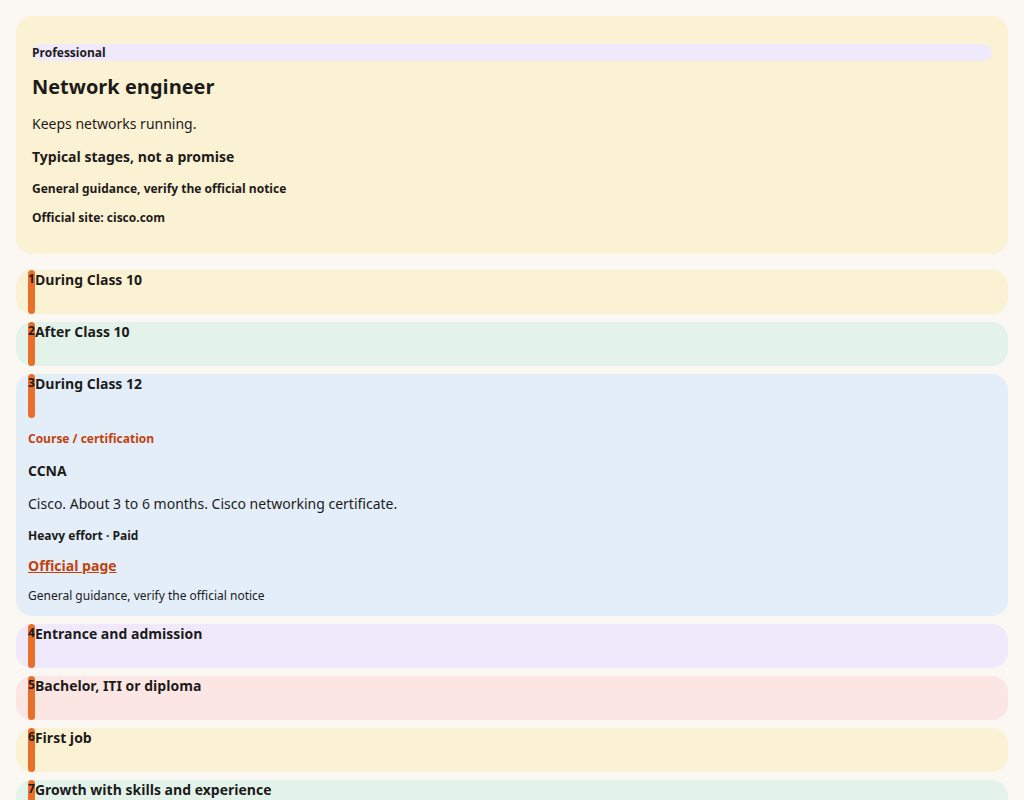
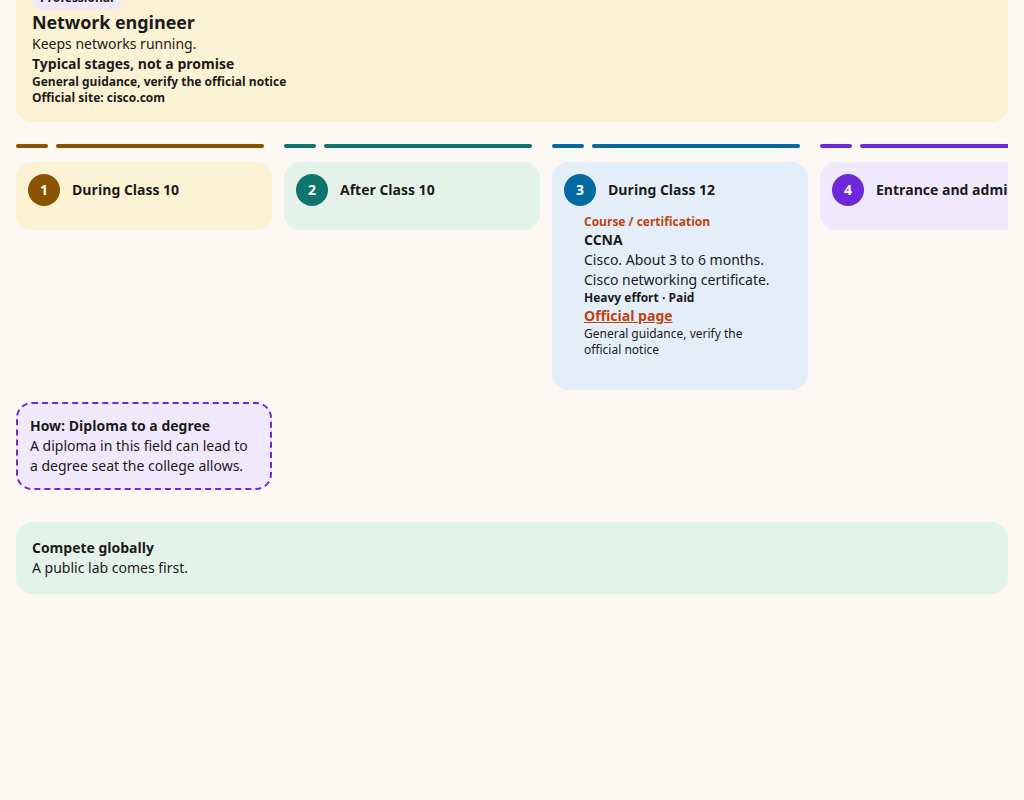
Show the career mind map from tablet width, with the stage number clear of the title.
The phone list stays under the md breakpoint. Wider screens scroll the stage cards sideways, with the connector above the cards and switch paths in a dashed row. Each stage number is a round deep-tint badge with a white numeral and a gap before the title.

diff --git a/docs/screenshots/career/html/roadmap.html b/docs/screenshots/career/html/roadmap.html
@@ -1,26 +1,1 @@
-<!doctype html><html><head><meta charset="utf-8"><style>
-body { margin: 0; background: #FBF8F3; color: #1C1B1A; font-family: system-ui, sans-serif; }
-.bg-paper { background: #FBF8F3; } .bg-card { background: #FFFDF9; }
-.bg-saffron { background: #E8702A; } .text-saffron-deep { color: #C2410C; }
-.text-ink { color: #1C1B1A; } .bg-lesson-butter { background: #FBF1D3; }
-.bg-lesson-mint { background: #E4F3EA; } .bg-lesson-sky { background: #E3EEF9; }
-.bg-lesson-lilac { background: #EFE9FB; } .bg-lesson-blush { background: #FBE6E3; }
-.text-lesson-mint-deep { color: #0F766E; } .text-lesson-sky-deep { color: #0369A1; }
-.text-lesson-butter-deep { color: #8A5300; } .text-lesson-lilac-deep { color: #6D28D9; }
-.text-lesson-blush-deep { color: #B42318; }
-.border-l-lesson-mint-deep { border-left-color: #0F766E; }
-.border-l-lesson-sky-deep { border-left-color: #0369A1; }
-.border-l-lesson-butter-deep { border-left-color: #8A5300; }
-.rounded-2xl { border-radius: 16px; } .rounded-xl { border-radius: 12px; } .rounded-full { border-radius: 9999px; }
-.p-4 { padding: 16px; } .p-3 { padding: 12px; } .px-3 { padding-left: 12px; padding-right: 12px; }
-.px-4 { padding-left: 16px; padding-right: 16px; } .py-3 { padding-top: 12px; padding-bottom: 12px; }
-.gap-2 { gap: 8px; } .gap-4 { gap: 16px; } .flex { display: flex; } .flex-col { flex-direction: column; }
-.min-h-\[44px\] { min-height: 44px; } .font-extrabold { font-weight: 800; } .font-semibold { font-weight: 600; }
-.text-sm { font-size: 14px; } .text-xs { font-size: 12px; } .text-base { font-size: 16px; }
-.border-l-4 { border-left-width: 4px; border-left-style: solid; }
-.fam-pill { display: inline-flex; align-items: center; border-radius: 9999px; padding: 2px 10px; font-size: 12px; font-weight: 700; }
-.fam-card { background: #FFFDF9; border-radius: 16px; padding: 16px; }
-.fam-h2 { font-size: 20px; font-weight: 800; margin: 0; }
-.fam-section { display: flex; flex-direction: column; gap: 12px; }
-dialog { border: 0; }
-</style></head><body><main style="padding:16px"><article data-roadmap="network-engineer" class="flex flex-col gap-4"><header class="rounded-2xl bg-lesson-butter p-4"><p class="inline-block whitespace-nowrap rounded-full bg-lesson-lilac px-2 py-1 text-xs font-extrabold text-ink">Professional</p><h2 lang="en" class="fam-h2 text-ink">Network engineer</h2><p lang="en" class="text-sm text-ink">Keeps networks running.</p><p class="text-sm font-semibold text-ink">Typical stages, not a promise</p><p data-guidance="true" class="text-xs font-semibold text-ink">General guidance, verify the official notice</p><p class="text-xs font-semibold text-ink">Official site: cisco.com</p></header><div data-stepper="true" class="flex flex-col gap-2 md:hidden"><details data-lane="during_10" class="rounded-2xl bg-lesson-butter"><summary class="flex min-h-[44px] cursor-pointer items-center px-3 text-sm font-extrabold text-ink"><span class="mr-2 inline-flex h-7 w-7 shrink-0 items-center justify-center rounded-full bg-saffron text-xs font-extrabold text-ink">1</span>During Class 10</summary><div class="flex flex-col gap-2 px-3 pb-3"></div></details><details data-lane="after_10" class="rounded-2xl bg-lesson-mint"><summary class="flex min-h-[44px] cursor-pointer items-center px-3 text-sm font-extrabold text-ink"><span class="mr-2 inline-flex h-7 w-7 shrink-0 items-center justify-center rounded-full bg-saffron text-xs font-extrabold text-ink">2</span>After Class 10</summary><div class="flex flex-col gap-2 px-3 pb-3"></div></details><details data-lane="during_12" open="" class="rounded-2xl bg-lesson-sky"><summary class="flex min-h-[44px] cursor-pointer items-center px-3 text-sm font-extrabold text-ink"><span class="mr-2 inline-flex h-7 w-7 shrink-0 items-center justify-center rounded-full bg-saffron text-xs font-extrabold text-ink">3</span>During Class 12</summary><div class="flex flex-col gap-2 px-3 pb-3"><div data-action="certification" class="rounded-xl px-2 py-2 text-sm text-ink bg-lesson-sky"><p class="text-xs font-extrabold text-saffron-deep">Course / certification</p><p lang="en" class="font-extrabold">CCNA</p><p lang="en">Cisco. About 3 to 6 months. Cisco networking certificate.</p><p class="text-xs font-semibold">Heavy effort · Paid</p><a class="text-sm font-extrabold text-saffron-deep underline" href="https://www.cisco.com">Official page</a><p class="text-xs">General guidance, verify the official notice</p></div></div></details><details data-lane="entrance" class="rounded-2xl bg-lesson-lilac"><summary class="flex min-h-[44px] cursor-pointer items-center px-3 text-sm font-extrabold text-ink"><span class="mr-2 inline-flex h-7 w-7 shrink-0 items-center justify-center rounded-full bg-saffron text-xs font-extrabold text-ink">4</span>Entrance and admission</summary><div class="flex flex-col gap-2 px-3 pb-3"></div></details><details data-lane="bachelor" class="rounded-2xl bg-lesson-blush"><summary class="flex min-h-[44px] cursor-pointer items-center px-3 text-sm font-extrabold text-ink"><span class="mr-2 inline-flex h-7 w-7 shrink-0 items-center justify-center rounded-full bg-saffron text-xs font-extrabold text-ink">5</span>Bachelor, ITI or diploma</summary><div class="flex flex-col gap-2 px-3 pb-3"></div></details><details data-lane="first_job" class="rounded-2xl bg-lesson-butter"><summary class="flex min-h-[44px] cursor-pointer items-center px-3 text-sm font-extrabold text-ink"><span class="mr-2 inline-flex h-7 w-7 shrink-0 items-center justify-center rounded-full bg-saffron text-xs font-extrabold text-ink">6</span>First job</summary><div class="flex flex-col gap-2 px-3 pb-3"></div></details><details data-lane="years" class="rounded-2xl bg-lesson-mint"><summary class="flex min-h-[44px] cursor-pointer items-center px-3 text-sm font-extrabold text-ink"><span class="mr-2 inline-flex h-7 w-7 shrink-0 items-center justify-center rounded-full bg-saffron text-xs font-extrabold text-ink">7</span>Growth with skills and experience</summary><div class="flex flex-col gap-2 px-3 pb-3"></div></details></div><div data-mindmap="true" class="hidden md:block"><div class="overflow-x-auto pb-4"><div class="flex w-max items-center gap-3 pb-2" data-connector="true"><div class="flex w-64 shrink-0 items-center"><span class="inline-flex h-8 w-8 shrink-0 items-center justify-center rounded-full bg-saffron text-sm font-extrabold text-ink">1</span><span class="mx-2 h-1 flex-1 rounded bg-saffron"></span></div><div class="flex w-64 shrink-0 items-center"><span class="inline-flex h-8 w-8 shrink-0 items-center justify-center rounded-full bg-saffron text-sm font-extrabold text-ink">2</span><span class="mx-2 h-1 flex-1 rounded bg-saffron"></span></div><div class="flex w-64 shrink-0 items-center"><span class="inline-flex h-8 w-8 shrink-0 items-center justify-center rounded-full bg-saffron text-sm font-extrabold text-ink">3</span><span class="mx-2 h-1 flex-1 rounded bg-saffron"></span></div><div class="flex w-64 shrink-0 items-center"><span class="inline-flex h-8 w-8 shrink-0 items-center justify-center rounded-full bg-saffron text-sm font-extrabold text-ink">4</span><span class="mx-2 h-1 flex-1 rounded bg-saffron"></span></div><div class="flex w-64 shrink-0 items-center"><span class="inline-flex h-8 w-8 shrink-0 items-center justify-center rounded-full bg-saffron text-sm font-extrabold text-ink">5</span><span class="mx-2 h-1 flex-1 rounded bg-saffron"></span></div><div class="flex w-64 shrink-0 items-center"><span class="inline-flex h-8 w-8 shrink-0 items-center justify-center rounded-full bg-saffron text-sm font-extrabold text-ink">6</span><span class="mx-2 h-1 flex-1 rounded bg-saffron"></span></div><div class="flex w-64 shrink-0 items-center"><span class="inline-flex h-8 w-8 shrink-0 items-center justify-center rounded-full bg-saffron text-sm font-extrabold text-ink">7</span></div></div><div class="flex w-max items-start gap-3"><section data-lane="during_10" class="w-64 shrink-0 rounded-2xl bg-lesson-butter p-3"><h3 class="text-sm font-extrabold text-ink">During Class 10</h3><div class="flex flex-col gap-2 px-3 pb-3"></div></section><section data-lane="after_10" class="w-64 shrink-0 rounded-2xl bg-lesson-mint p-3"><h3 class="text-sm font-extrabold text-ink">After Class 10</h3><div class="flex flex-col gap-2 px-3 pb-3"></div></section><section data-lane="during_12" class="w-64 shrink-0 rounded-2xl bg-lesson-sky p-3"><h3 class="text-sm font-extrabold text-ink">During Class 12</h3><div class="flex flex-col gap-2 px-3 pb-3"><div data-action="certification" class="rounded-xl px-2 py-2 text-sm text-ink bg-lesson-sky"><p class="text-xs font-extrabold text-saffron-deep">Course / certification</p><p lang="en" class="font-extrabold">CCNA</p><p lang="en">Cisco. About 3 to 6 months. Cisco networking certificate.</p><p class="text-xs font-semibold">Heavy effort · Paid</p><a class="text-sm font-extrabold text-saffron-deep underline" href="https://www.cisco.com">Official page</a><p class="text-xs">General guidance, verify the official notice</p></div></div></section><section data-lane="entrance" class="w-64 shrink-0 rounded-2xl bg-lesson-lilac p-3"><h3 class="text-sm font-extrabold text-ink">Entrance and admission</h3><div class="flex flex-col gap-2 px-3 pb-3"></div></section><section data-lane="bachelor" class="w-64 shrink-0 rounded-2xl bg-lesson-blush p-3"><h3 class="text-sm font-extrabold text-ink">Bachelor, ITI or diploma</h3><div class="flex flex-col gap-2 px-3 pb-3"></div></section><section data-lane="first_job" class="w-64 shrink-0 rounded-2xl bg-lesson-butter p-3"><h3 class="text-sm font-extrabold text-ink">First job</h3><div class="flex flex-col gap-2 px-3 pb-3"></div></section><section data-lane="years" class="w-64 shrink-0 rounded-2xl bg-lesson-mint p-3"><h3 class="text-sm font-extrabold text-ink">Growth with skills and experience</h3><div class="flex flex-col gap-2 px-3 pb-3"></div></section></div></div></div><section data-compete="true" class="rounded-2xl bg-lesson-mint p-4"><h3 class="text-sm font-extrabold text-ink">Compete globally</h3><p lang="en" class="text-sm text-ink">A public lab comes first.</p></section></article></main></body></html>
+<!doctype html><html><head><meta charset="utf-8"><link rel="stylesheet" href="file:///workspace/.next/static/css/5f8e0c6abeffa412.css"><link rel="stylesheet" href="file:///workspace/.next/static/css/db16f716d51f14d7.css"></head><body class="bg-paper"><main class="fam-page fam-roadmap"><article data-roadmap="network-engineer" class="flex flex-col gap-4"><header class="rounded-2xl bg-lesson-butter p-4"><p class="inline-block whitespace-nowrap rounded-full bg-lesson-lilac px-2 py-1 text-xs font-extrabold text-ink">Professional</p><h2 lang="en" class="fam-h2 text-ink">Network engineer</h2><p lang="en" class="text-sm text-ink">Keeps networks running.</p><p class="text-sm font-semibold text-ink">Typical stages, not a promise</p><p data-guidance="true" class="text-xs font-semibold text-ink">General guidance, verify the official notice</p><p class="text-xs font-semibold text-ink">Official site: cisco.com</p></header><div data-stepper="true" class="flex flex-col gap-2 md:hidden"><details data-lane="during_10" class="rounded-2xl bg-lesson-butter"><summary class="flex min-h-[44px] cursor-pointer items-center gap-3 px-3 text-sm font-extrabold text-ink"><span aria-hidden="true" class="h-8 w-1 shrink-0 rounded-full bg-lesson-butter-deep"></span><span class="inline-flex h-8 w-8 min-h-[28px] min-w-[28px] shrink-0 items-center justify-center rounded-full text-sm font-extrabold text-white bg-lesson-butter-deep">1</span><span class="min-w-0">During Class 10</span></summary><div class="flex flex-col gap-2 px-3 pb-3"></div></details><details data-lane="after_10" class="rounded-2xl bg-lesson-mint"><summary class="flex min-h-[44px] cursor-pointer items-center gap-3 px-3 text-sm font-extrabold text-ink"><span aria-hidden="true" class="h-8 w-1 shrink-0 rounded-full bg-lesson-mint-deep"></span><span class="inline-flex h-8 w-8 min-h-[28px] min-w-[28px] shrink-0 items-center justify-center rounded-full text-sm font-extrabold text-white bg-lesson-mint-deep">2</span><span class="min-w-0">After Class 10</span></summary><div class="flex flex-col gap-2 px-3 pb-3"></div></details><details data-lane="during_12" open="" class="rounded-2xl bg-lesson-sky"><summary class="flex min-h-[44px] cursor-pointer items-center gap-3 px-3 text-sm font-extrabold text-ink"><span aria-hidden="true" class="h-8 w-1 shrink-0 rounded-full bg-lesson-sky-deep"></span><span class="inline-flex h-8 w-8 min-h-[28px] min-w-[28px] shrink-0 items-center justify-center rounded-full text-sm font-extrabold text-white bg-lesson-sky-deep">3</span><span class="min-w-0">During Class 12</span></summary><div class="flex flex-col gap-2 px-3 pb-3"><div data-action="certification" class="rounded-xl px-2 py-2 text-sm text-ink bg-lesson-sky"><p class="text-xs font-extrabold text-saffron-deep">Course / certification</p><p lang="en" class="font-extrabold">CCNA</p><p lang="en">Cisco. About 3 to 6 months. Cisco networking certificate.</p><p class="text-xs font-semibold">Heavy effort · Paid</p><a class="text-sm font-extrabold text-saffron-deep underline" href="https://www.cisco.com">Official page</a><p class="text-xs">General guidance, verify the official notice</p></div></div></details><details data-lane="entrance" class="rounded-2xl bg-lesson-lilac"><summary class="flex min-h-[44px] cursor-pointer items-center gap-3 px-3 text-sm font-extrabold text-ink"><span aria-hidden="true" class="h-8 w-1 shrink-0 rounded-full bg-lesson-lilac-deep"></span><span class="inline-flex h-8 w-8 min-h-[28px] min-w-[28px] shrink-0 items-center justify-center rounded-full text-sm font-extrabold text-white bg-lesson-lilac-deep">4</span><span class="min-w-0">Entrance and admission</span></summary><div class="flex flex-col gap-2 px-3 pb-3"></div></details><details data-lane="bachelor" class="rounded-2xl bg-lesson-blush"><summary class="flex min-h-[44px] cursor-pointer items-center gap-3 px-3 text-sm font-extrabold text-ink"><span aria-hidden="true" class="h-8 w-1 shrink-0 rounded-full bg-lesson-blush-deep"></span><span class="inline-flex h-8 w-8 min-h-[28px] min-w-[28px] shrink-0 items-center justify-center rounded-full text-sm font-extrabold text-white bg-lesson-blush-deep">5</span><span class="min-w-0">Bachelor, ITI or diploma</span></summary><div class="flex flex-col gap-2 px-3 pb-3"></div></details><details data-lane="first_job" class="rounded-2xl bg-lesson-butter"><summary class="flex min-h-[44px] cursor-pointer items-center gap-3 px-3 text-sm font-extrabold text-ink"><span aria-hidden="true" class="h-8 w-1 shrink-0 rounded-full bg-lesson-butter-deep"></span><span class="inline-flex h-8 w-8 min-h-[28px] min-w-[28px] shrink-0 items-center justify-center rounded-full text-sm font-extrabold text-white bg-lesson-butter-deep">6</span><span class="min-w-0">First job</span></summary><div class="flex flex-col gap-2 px-3 pb-3"></div></details><details data-lane="years" class="rounded-2xl bg-lesson-mint"><summary class="flex min-h-[44px] cursor-pointer items-center gap-3 px-3 text-sm font-extrabold text-ink"><span aria-hidden="true" class="h-8 w-1 shrink-0 rounded-full bg-lesson-mint-deep"></span><span class="inline-flex h-8 w-8 min-h-[28px] min-w-[28px] shrink-0 items-center justify-center rounded-full text-sm font-extrabold text-white bg-lesson-mint-deep">7</span><span class="min-w-0">Growth with skills and experience</span></summary><div class="flex flex-col gap-2 px-3 pb-3"></div></details></div><div data-mindmap="true" class="hidden md:block"><div class="overflow-x-auto pb-4"><div class="flex w-max items-center gap-3 pb-2" data-connector="true" aria-hidden="true"><div class="flex w-64 shrink-0 items-center"><span class="h-1 w-8 shrink-0 rounded-full bg-lesson-butter-deep"></span><span class="mx-2 h-1 flex-1 rounded bg-lesson-butter-deep"></span></div><div class="flex w-64 shrink-0 items-center"><span class="h-1 w-8 shrink-0 rounded-full bg-lesson-mint-deep"></span><span class="mx-2 h-1 flex-1 rounded bg-lesson-mint-deep"></span></div><div class="flex w-64 shrink-0 items-center"><span class="h-1 w-8 shrink-0 rounded-full bg-lesson-sky-deep"></span><span class="mx-2 h-1 flex-1 rounded bg-lesson-sky-deep"></span></div><div class="flex w-64 shrink-0 items-center"><span class="h-1 w-8 shrink-0 rounded-full bg-lesson-lilac-deep"></span><span class="mx-2 h-1 flex-1 rounded bg-lesson-lilac-deep"></span></div><div class="flex w-64 shrink-0 items-center"><span class="h-1 w-8 shrink-0 rounded-full bg-lesson-blush-deep"></span><span class="mx-2 h-1 flex-1 rounded bg-lesson-blush-deep"></span></div><div class="flex w-64 shrink-0 items-center"><span class="h-1 w-8 shrink-0 rounded-full bg-lesson-butter-deep"></span><span class="mx-2 h-1 flex-1 rounded bg-lesson-butter-deep"></span></div><div class="flex w-64 shrink-0 items-center"><span class="h-1 w-8 shrink-0 rounded-full bg-lesson-mint-deep"></span></div><svg data-connectors="true" viewBox="0 0 40 16" class="h-4 w-10 shrink-0 text-lesson-lilac-deep"><path data-cross="true" d="M0 8 H40" fill="none" stroke="currentColor" stroke-width="2" stroke-dasharray="6 4"></path></svg></div><div class="flex w-max items-start gap-3"><section data-lane="during_10" class="w-64 shrink-0 rounded-2xl bg-lesson-butter p-3"><div class="flex items-center gap-3"><span class="inline-flex h-8 w-8 min-h-[28px] min-w-[28px] shrink-0 items-center justify-center rounded-full text-sm font-extrabold text-white bg-lesson-butter-deep">1</span><h3 class="min-w-0 text-sm font-extrabold text-ink">During Class 10</h3></div><div class="flex flex-col gap-2 px-3 pb-3"></div></section><section data-lane="after_10" class="w-64 shrink-0 rounded-2xl bg-lesson-mint p-3"><div class="flex items-center gap-3"><span class="inline-flex h-8 w-8 min-h-[28px] min-w-[28px] shrink-0 items-center justify-center rounded-full text-sm font-extrabold text-white bg-lesson-mint-deep">2</span><h3 class="min-w-0 text-sm font-extrabold text-ink">After Class 10</h3></div><div class="flex flex-col gap-2 px-3 pb-3"></div></section><section data-lane="during_12" class="w-64 shrink-0 rounded-2xl bg-lesson-sky p-3"><div class="flex items-center gap-3"><span class="inline-flex h-8 w-8 min-h-[28px] min-w-[28px] shrink-0 items-center justify-center rounded-full text-sm font-extrabold text-white bg-lesson-sky-deep">3</span><h3 class="min-w-0 text-sm font-extrabold text-ink">During Class 12</h3></div><div class="flex flex-col gap-2 px-3 pb-3"><div data-action="certification" class="rounded-xl px-2 py-2 text-sm text-ink bg-lesson-sky"><p class="text-xs font-extrabold text-saffron-deep">Course / certification</p><p lang="en" class="font-extrabold">CCNA</p><p lang="en">Cisco. About 3 to 6 months. Cisco networking certificate.</p><p class="text-xs font-semibold">Heavy effort · Paid</p><a class="text-sm font-extrabold text-saffron-deep underline" href="https://www.cisco.com">Official page</a><p class="text-xs">General guidance, verify the official notice</p></div></div></section><section data-lane="entrance" class="w-64 shrink-0 rounded-2xl bg-lesson-lilac p-3"><div class="flex items-center gap-3"><span class="inline-flex h-8 w-8 min-h-[28px] min-w-[28px] shrink-0 items-center justify-center rounded-full text-sm font-extrabold text-white bg-lesson-lilac-deep">4</span><h3 class="min-w-0 text-sm font-extrabold text-ink">Entrance and admission</h3></div><div class="flex flex-col gap-2 px-3 pb-3"></div></section><section data-lane="bachelor" class="w-64 shrink-0 rounded-2xl bg-lesson-blush p-3"><div class="flex items-center gap-3"><span class="inline-flex h-8 w-8 min-h-[28px] min-w-[28px] shrink-0 items-center justify-center rounded-full text-sm font-extrabold text-white bg-lesson-blush-deep">5</span><h3 class="min-w-0 text-sm font-extrabold text-ink">Bachelor, ITI or diploma</h3></div><div class="flex flex-col gap-2 px-3 pb-3"></div></section><section data-lane="first_job" class="w-64 shrink-0 rounded-2xl bg-lesson-butter p-3"><div class="flex items-center gap-3"><span class="inline-flex h-8 w-8 min-h-[28px] min-w-[28px] shrink-0 items-center justify-center rounded-full text-sm font-extrabold text-white bg-lesson-butter-deep">6</span><h3 class="min-w-0 text-sm font-extrabold text-ink">First job</h3></div><div class="flex flex-col gap-2 px-3 pb-3"></div></section><section data-lane="years" class="w-64 shrink-0 rounded-2xl bg-lesson-mint p-3"><div class="flex items-center gap-3"><span class="inline-flex h-8 w-8 min-h-[28px] min-w-[28px] shrink-0 items-center justify-center rounded-full text-sm font-extrabold text-white bg-lesson-mint-deep">7</span><h3 class="min-w-0 text-sm font-extrabold text-ink">Growth with skills and experience</h3></div><div class="flex flex-col gap-2 px-3 pb-3"></div></section></div><div data-cross="true" class="mt-3 flex w-max gap-3"><article class="w-64 shrink-0 rounded-2xl border-2 border-dashed border-lesson-lilac-deep bg-lesson-lilac px-3 py-3 text-sm text-ink"><p lang="en" class="font-extrabold">How: Diploma to a degree</p><p lang="en">A diploma in this field can lead to a degree seat the college allows.</p></article></div></div></div><section data-cross-list="true" class="flex flex-col gap-2 md:hidden"><h3 class="text-sm font-extrabold text-ink">Switch paths</h3><div data-cross="true" class="rounded-2xl border-2 border-dashed border-lesson-lilac-deep bg-lesson-lilac px-3 py-3 text-sm text-ink"><p lang="en" class="font-extrabold">How: Diploma to a degree</p><p lang="en">A diploma in this field can lead to a degree seat the college allows.</p><p class="text-xs font-semibold">Official site: aicte-india.org</p></div></section><section data-compete="true" class="rounded-2xl bg-lesson-mint p-4"><h3 class="text-sm font-extrabold text-ink">Compete globally</h3><p lang="en" class="text-sm text-ink">A public lab comes first.</p></section></article></main></body></html>

diff --git a/docs/screenshots/career/html/roadmap-hi.html b/docs/screenshots/career/html/roadmap-hi.html
@@ -1,0 +1,1 @@
+<!doctype html><html><head><meta charset="utf-8"><link rel="stylesheet" href="file:///workspace/.next/static/css/5f8e0c6abeffa412.css"><link rel="stylesheet" href="file:///workspace/.next/static/css/db16f716d51f14d7.css"></head><body class="bg-paper"><main class="fam-page fam-roadmap"><article data-roadmap="network-engineer" class="flex flex-col gap-4"><header class="rounded-2xl bg-lesson-butter p-4"><p class="inline-block whitespace-nowrap rounded-full bg-lesson-lilac px-2 py-1 text-xs font-extrabold text-ink">पेशेवर</p><h2 lang="hi" class="fam-h2 text-ink">नेटवर्क इंजीनियर</h2><p lang="hi" class="text-sm text-ink">नेटवर्क चलाता है।</p><p class="text-sm font-semibold text-ink">आम पड़ाव, वादा नहीं</p><p data-guidance="true" class="text-xs font-semibold text-ink">सामान्य मार्गदर्शन, आधिकारिक सूचना जाँचें</p><p class="text-xs font-semibold text-ink">आधिकारिक साइट: cisco.com</p></header><div data-stepper="true" class="flex flex-col gap-2 md:hidden"><details data-lane="during_10" class="rounded-2xl bg-lesson-butter"><summary class="flex min-h-[44px] cursor-pointer items-center gap-3 px-3 text-sm font-extrabold text-ink"><span aria-hidden="true" class="h-8 w-1 shrink-0 rounded-full bg-lesson-butter-deep"></span><span class="inline-flex h-8 w-8 min-h-[28px] min-w-[28px] shrink-0 items-center justify-center rounded-full text-sm font-extrabold text-white bg-lesson-butter-deep">1</span><span class="min-w-0">कक्षा 10 के दौरान</span></summary><div class="flex flex-col gap-2 px-3 pb-3"></div></details><details data-lane="after_10" class="rounded-2xl bg-lesson-mint"><summary class="flex min-h-[44px] cursor-pointer items-center gap-3 px-3 text-sm font-extrabold text-ink"><span aria-hidden="true" class="h-8 w-1 shrink-0 rounded-full bg-lesson-mint-deep"></span><span class="inline-flex h-8 w-8 min-h-[28px] min-w-[28px] shrink-0 items-center justify-center rounded-full text-sm font-extrabold text-white bg-lesson-mint-deep">2</span><span class="min-w-0">कक्षा 10 के बाद</span></summary><div class="flex flex-col gap-2 px-3 pb-3"></div></details><details data-lane="during_12" open="" class="rounded-2xl bg-lesson-sky"><summary class="flex min-h-[44px] cursor-pointer items-center gap-3 px-3 text-sm font-extrabold text-ink"><span aria-hidden="true" class="h-8 w-1 shrink-0 rounded-full bg-lesson-sky-deep"></span><span class="inline-flex h-8 w-8 min-h-[28px] min-w-[28px] shrink-0 items-center justify-center rounded-full text-sm font-extrabold text-white bg-lesson-sky-deep">3</span><span class="min-w-0">कक्षा 12 के दौरान</span></summary><div class="flex flex-col gap-2 px-3 pb-3"><div data-action="certification" class="rounded-xl px-2 py-2 text-sm text-ink bg-lesson-sky"><p class="text-xs font-extrabold text-saffron-deep">कोर्स / प्रमाणपत्र</p><p lang="hi" class="font-extrabold">सीसीएनए</p><p lang="hi">सिस्को। लगभग 3 से 6 महीने। सिस्को का नेटवर्किंग प्रमाणपत्र।</p><p class="text-xs font-semibold">भारी प्रयास · सशुल्क</p><a class="text-sm font-extrabold text-saffron-deep underline" href="https://www.cisco.com">आधिकारिक पन्ना</a><p class="text-xs">सामान्य मार्गदर्शन, आधिकारिक सूचना जाँचें</p></div></div></details><details data-lane="entrance" class="rounded-2xl bg-lesson-lilac"><summary class="flex min-h-[44px] cursor-pointer items-center gap-3 px-3 text-sm font-extrabold text-ink"><span aria-hidden="true" class="h-8 w-1 shrink-0 rounded-full bg-lesson-lilac-deep"></span><span class="inline-flex h-8 w-8 min-h-[28px] min-w-[28px] shrink-0 items-center justify-center rounded-full text-sm font-extrabold text-white bg-lesson-lilac-deep">4</span><span class="min-w-0">प्रवेश और दाखिला</span></summary><div class="flex flex-col gap-2 px-3 pb-3"></div></details><details data-lane="bachelor" class="rounded-2xl bg-lesson-blush"><summary class="flex min-h-[44px] cursor-pointer items-center gap-3 px-3 text-sm font-extrabold text-ink"><span aria-hidden="true" class="h-8 w-1 shrink-0 rounded-full bg-lesson-blush-deep"></span><span class="inline-flex h-8 w-8 min-h-[28px] min-w-[28px] shrink-0 items-center justify-center rounded-full text-sm font-extrabold text-white bg-lesson-blush-deep">5</span><span class="min-w-0">स्नातक, आईटीआई या डिप्लोमा</span></summary><div class="flex flex-col gap-2 px-3 pb-3"></div></details><details data-lane="first_job" class="rounded-2xl bg-lesson-butter"><summary class="flex min-h-[44px] cursor-pointer items-center gap-3 px-3 text-sm font-extrabold text-ink"><span aria-hidden="true" class="h-8 w-1 shrink-0 rounded-full bg-lesson-butter-deep"></span><span class="inline-flex h-8 w-8 min-h-[28px] min-w-[28px] shrink-0 items-center justify-center rounded-full text-sm font-extrabold text-white bg-lesson-butter-deep">6</span><span class="min-w-0">पहली नौकरी</span></summary><div class="flex flex-col gap-2 px-3 pb-3"></div></details><details data-lane="years" class="rounded-2xl bg-lesson-mint"><summary class="flex min-h-[44px] cursor-pointer items-center gap-3 px-3 text-sm font-extrabold text-ink"><span aria-hidden="true" class="h-8 w-1 shrink-0 rounded-full bg-lesson-mint-deep"></span><span class="inline-flex h-8 w-8 min-h-[28px] min-w-[28px] shrink-0 items-center justify-center rounded-full text-sm font-extrabold text-white bg-lesson-mint-deep">7</span><span class="min-w-0">हुनर और अनुभव से आगे बढ़ना</span></summary><div class="flex flex-col gap-2 px-3 pb-3"></div></details></div><div data-mindmap="true" class="hidden md:block"><div class="overflow-x-auto pb-4"><div class="flex w-max items-center gap-3 pb-2" data-connector="true" aria-hidden="true"><div class="flex w-64 shrink-0 items-center"><span class="h-1 w-8 shrink-0 rounded-full bg-lesson-butter-deep"></span><span class="mx-2 h-1 flex-1 rounded bg-lesson-butter-deep"></span></div><div class="flex w-64 shrink-0 items-center"><span class="h-1 w-8 shrink-0 rounded-full bg-lesson-mint-deep"></span><span class="mx-2 h-1 flex-1 rounded bg-lesson-mint-deep"></span></div><div class="flex w-64 shrink-0 items-center"><span class="h-1 w-8 shrink-0 rounded-full bg-lesson-sky-deep"></span><span class="mx-2 h-1 flex-1 rounded bg-lesson-sky-deep"></span></div><div class="flex w-64 shrink-0 items-center"><span class="h-1 w-8 shrink-0 rounded-full bg-lesson-lilac-deep"></span><span class="mx-2 h-1 flex-1 rounded bg-lesson-lilac-deep"></span></div><div class="flex w-64 shrink-0 items-center"><span class="h-1 w-8 shrink-0 rounded-full bg-lesson-blush-deep"></span><span class="mx-2 h-1 flex-1 rounded bg-lesson-blush-deep"></span></div><div class="flex w-64 shrink-0 items-center"><span class="h-1 w-8 shrink-0 rounded-full bg-lesson-butter-deep"></span><span class="mx-2 h-1 flex-1 rounded bg-lesson-butter-deep"></span></div><div class="flex w-64 shrink-0 items-center"><span class="h-1 w-8 shrink-0 rounded-full bg-lesson-mint-deep"></span></div><svg data-connectors="true" viewBox="0 0 40 16" class="h-4 w-10 shrink-0 text-lesson-lilac-deep"><path data-cross="true" d="M0 8 H40" fill="none" stroke="currentColor" stroke-width="2" stroke-dasharray="6 4"></path></svg></div><div class="flex w-max items-start gap-3"><section data-lane="during_10" class="w-64 shrink-0 rounded-2xl bg-lesson-butter p-3"><div class="flex items-center gap-3"><span class="inline-flex h-8 w-8 min-h-[28px] min-w-[28px] shrink-0 items-center justify-center rounded-full text-sm font-extrabold text-white bg-lesson-butter-deep">1</span><h3 class="min-w-0 text-sm font-extrabold text-ink">कक्षा 10 के दौरान</h3></div><div class="flex flex-col gap-2 px-3 pb-3"></div></section><section data-lane="after_10" class="w-64 shrink-0 rounded-2xl bg-lesson-mint p-3"><div class="flex items-center gap-3"><span class="inline-flex h-8 w-8 min-h-[28px] min-w-[28px] shrink-0 items-center justify-center rounded-full text-sm font-extrabold text-white bg-lesson-mint-deep">2</span><h3 class="min-w-0 text-sm font-extrabold text-ink">कक्षा 10 के बाद</h3></div><div class="flex flex-col gap-2 px-3 pb-3"></div></section><section data-lane="during_12" class="w-64 shrink-0 rounded-2xl bg-lesson-sky p-3"><div class="flex items-center gap-3"><span class="inline-flex h-8 w-8 min-h-[28px] min-w-[28px] shrink-0 items-center justify-center rounded-full text-sm font-extrabold text-white bg-lesson-sky-deep">3</span><h3 class="min-w-0 text-sm font-extrabold text-ink">कक्षा 12 के दौरान</h3></div><div class="flex flex-col gap-2 px-3 pb-3"><div data-action="certification" class="rounded-xl px-2 py-2 text-sm text-ink bg-lesson-sky"><p class="text-xs font-extrabold text-saffron-deep">कोर्स / प्रमाणपत्र</p><p lang="hi" class="font-extrabold">सीसीएनए</p><p lang="hi">सिस्को। लगभग 3 से 6 महीने। सिस्को का नेटवर्किंग प्रमाणपत्र।</p><p class="text-xs font-semibold">भारी प्रयास · सशुल्क</p><a class="text-sm font-extrabold text-saffron-deep underline" href="https://www.cisco.com">आधिकारिक पन्ना</a><p class="text-xs">सामान्य मार्गदर्शन, आधिकारिक सूचना जाँचें</p></div></div></section><section data-lane="entrance" class="w-64 shrink-0 rounded-2xl bg-lesson-lilac p-3"><div class="flex items-center gap-3"><span class="inline-flex h-8 w-8 min-h-[28px] min-w-[28px] shrink-0 items-center justify-center rounded-full text-sm font-extrabold text-white bg-lesson-lilac-deep">4</span><h3 class="min-w-0 text-sm font-extrabold text-ink">प्रवेश और दाखिला</h3></div><div class="flex flex-col gap-2 px-3 pb-3"></div></section><section data-lane="bachelor" class="w-64 shrink-0 rounded-2xl bg-lesson-blush p-3"><div class="flex items-center gap-3"><span class="inline-flex h-8 w-8 min-h-[28px] min-w-[28px] shrink-0 items-center justify-center rounded-full text-sm font-extrabold text-white bg-lesson-blush-deep">5</span><h3 class="min-w-0 text-sm font-extrabold text-ink">स्नातक, आईटीआई या डिप्लोमा</h3></div><div class="flex flex-col gap-2 px-3 pb-3"></div></section><section data-lane="first_job" class="w-64 shrink-0 rounded-2xl bg-lesson-butter p-3"><div class="flex items-center gap-3"><span class="inline-flex h-8 w-8 min-h-[28px] min-w-[28px] shrink-0 items-center justify-center rounded-full text-sm font-extrabold text-white bg-lesson-butter-deep">6</span><h3 class="min-w-0 text-sm font-extrabold text-ink">पहली नौकरी</h3></div><div class="flex flex-col gap-2 px-3 pb-3"></div></section><section data-lane="years" class="w-64 shrink-0 rounded-2xl bg-lesson-mint p-3"><div class="flex items-center gap-3"><span class="inline-flex h-8 w-8 min-h-[28px] min-w-[28px] shrink-0 items-center justify-center rounded-full text-sm font-extrabold text-white bg-lesson-mint-deep">7</span><h3 class="min-w-0 text-sm font-extrabold text-ink">हुनर और अनुभव से आगे बढ़ना</h3></div><div class="flex flex-col gap-2 px-3 pb-3"></div></section></div><div data-cross="true" class="mt-3 flex w-max gap-3"><article class="w-64 shrink-0 rounded-2xl border-2 border-dashed border-lesson-lilac-deep bg-lesson-lilac px-3 py-3 text-sm text-ink"><p lang="hi" class="font-extrabold">कैसे: डिप्लोमा से डिग्री</p><p lang="hi">इस क्षेत्र का डिप्लोमा कॉलेज की डिग्री सीट तक जा सकता है।</p></article></div></div></div><section data-cross-list="true" class="flex flex-col gap-2 md:hidden"><h3 class="text-sm font-extrabold text-ink">बदलने के रास्ते</h3><div data-cross="true" class="rounded-2xl border-2 border-dashed border-lesson-lilac-deep bg-lesson-lilac px-3 py-3 text-sm text-ink"><p lang="hi" class="font-extrabold">कैसे: डिप्लोमा से डिग्री</p><p lang="hi">इस क्षेत्र का डिप्लोमा कॉलेज की डिग्री सीट तक जा सकता है।</p><p class="text-xs font-semibold">आधिकारिक साइट: aicte-india.org</p></div></section><section data-compete="true" class="rounded-2xl bg-lesson-mint p-4"><h3 class="text-sm font-extrabold text-ink">दुनिया से मुकाबला</h3><p lang="hi" class="text-sm text-ink">पहले सार्वजनिक प्रयोग।</p></section></article></main></body></html>

diff --git a/src/components/family/careers/RoadmapView.tsx b/src/components/family/careers/RoadmapView.tsx
@@ -4,6 +4,13 @@ import type { LaneId, Roadmap } from '@/lib/family/careers/types';
 
 const text = (lang: Lang, en: string, hi: string) => (lang === 'hi' ? hi : en);
 const TINT = ['bg-lesson-butter', 'bg-lesson-mint', 'bg-lesson-sky', 'bg-lesson-lilac', 'bg-lesson-blush', 'bg-lesson-butter', 'bg-lesson-mint'];
+const DEEP = ['bg-lesson-butter-deep', 'bg-lesson-mint-deep', 'bg-lesson-sky-deep', 'bg-lesson-lilac-deep', 'bg-lesson-blush-deep', 'bg-lesson-butter-deep', 'bg-lesson-mint-deep'];
+
+function StageBadge({ n, deep }: { n: number; deep: string }) {
+  return (
+    <span className={`inline-flex h-8 w-8 min-h-[28px] min-w-[28px] shrink-0 items-center justify-center rounded-full text-sm font-extrabold text-white ${deep}`}>{n}</span>
+  );
+}
 
 export function RoadmapView({ roadmap, lang, openLane }: { roadmap: Roadmap; lang: Lang; openLane: LaneId }) {
   const { career, lanes, crosses } = roadmap;
@@ -25,9 +32,10 @@ export function RoadmapView({ roadmap, lang, openLane }: { roadmap: Roadmap; lan
       <div data-stepper className="flex flex-col gap-2 md:hidden">
         {lanes.map((lane, i) => (
           <details key={lane.id} data-lane={lane.id} open={lane.id === openLane} className={`rounded-2xl ${TINT[i]}`}>
-            <summary className="flex min-h-[44px] cursor-pointer items-center px-3 text-sm font-extrabold text-ink">
-              <span className="mr-2 inline-flex h-7 w-7 shrink-0 items-center justify-center rounded-full bg-saffron text-xs font-extrabold text-ink">{i + 1}</span>
-              {t(lang, LANE_KEY[lane.id])}
+            <summary className="flex min-h-[44px] cursor-pointer items-center gap-3 px-3 text-sm font-extrabold text-ink">
+              <span aria-hidden="true" className={`h-8 w-1 shrink-0 rounded-full ${DEEP[i]}`} />
+              <StageBadge n={i + 1} deep={DEEP[i]} />
+              <span className="min-w-0">{t(lang, LANE_KEY[lane.id])}</span>
             </summary>
             <LaneBody lane={lane} lang={lang} />
           </details>
@@ -35,15 +43,15 @@ export function RoadmapView({ roadmap, lang, openLane }: { roadmap: Roadmap; lan
       </div>
       <div data-mindmap className="hidden md:block">
         <div className="overflow-x-auto pb-4">
-          <div className="flex w-max items-center gap-3 pb-2" data-connector>
+          <div className="flex w-max items-center gap-3 pb-2" data-connector aria-hidden="true">
             {lanes.map((lane, i) => (
               <div key={lane.id} className="flex w-64 shrink-0 items-center">
-                <span className="inline-flex h-8 w-8 shrink-0 items-center justify-center rounded-full bg-saffron text-sm font-extrabold text-ink">{i + 1}</span>
-                {i < lanes.length - 1 && <span className="mx-2 h-1 flex-1 rounded bg-saffron" />}
+                <span className={`h-1 w-8 shrink-0 rounded-full ${DEEP[i]}`} />
+                {i < lanes.length - 1 && <span className={`mx-2 h-1 flex-1 rounded ${DEEP[i]}`} />}
               </div>
             ))}
             {crosses.length > 0 && (
-              <svg data-connectors viewBox="0 0 40 16" className="h-4 w-10 shrink-0 text-lesson-lilac-deep" aria-hidden="true">
+              <svg data-connectors viewBox="0 0 40 16" className="h-4 w-10 shrink-0 text-lesson-lilac-deep">
                 <path data-cross d="M0 8 H40" fill="none" stroke="currentColor" strokeWidth="2" strokeDasharray="6 4" />
               </svg>
             )}
@@ -51,15 +59,28 @@ export function RoadmapView({ roadmap, lang, openLane }: { roadmap: Roadmap; lan
           <div className="flex w-max items-start gap-3">
             {lanes.map((lane, i) => (
               <section key={lane.id} data-lane={lane.id} className={`w-64 shrink-0 rounded-2xl ${TINT[i]} p-3`}>
-                <h3 className="text-sm font-extrabold text-ink">{t(lang, LANE_KEY[lane.id])}</h3>
+                <div className="flex items-center gap-3">
+                  <StageBadge n={i + 1} deep={DEEP[i]} />
+                  <h3 className="min-w-0 text-sm font-extrabold text-ink">{t(lang, LANE_KEY[lane.id])}</h3>
+                </div>
                 <LaneBody lane={lane} lang={lang} />
               </section>
             ))}
           </div>
+          {crosses.length > 0 && (
+            <div data-cross className="mt-3 flex w-max gap-3">
+              {crosses.map((c) => (
+                <article key={c.key} className="w-64 shrink-0 rounded-2xl border-2 border-dashed border-lesson-lilac-deep bg-lesson-lilac px-3 py-3 text-sm text-ink">
+                  <p lang={lang} className="font-extrabold">{t(lang, 'fam.career.crossVia')}: {text(lang, c.via.en, c.via.hi)}</p>
+                  <p lang={lang}>{text(lang, c.conditions.en, c.conditions.hi)}</p>
+                </article>
+              ))}
+            </div>
+          )}
         </div>
       </div>
       {crosses.length > 0 && (
-        <section data-cross-list className="flex flex-col gap-2">
+        <section data-cross-list className="flex flex-col gap-2 md:hidden">
           <h3 className="text-sm font-extrabold text-ink">{t(lang, 'fam.career.crossTitle')}</h3>
           {crosses.map((c) => (
             <div key={c.key} data-cross className="rounded-2xl border-2 border-dashed border-lesson-lilac-deep bg-lesson-lilac px-3 py-3 text-sm text-ink">

diff --git a/test/careers/career-hub.test.ts b/test/careers/career-hub.test.ts
@@ -137,6 +137,12 @@ describe('roadmap', () => {
     expect(html).toContain('सॉफ्टवेयर इंजीनियर');
     expect(html).toContain('सामान्य मार्गदर्शन, आधिकारिक सूचना जाँचें');
     expect(html).toContain('stroke-dasharray');
+    expect(html).toContain('data-stepper');
+    expect(html).toContain('md:hidden');
+    expect(html).toContain('data-mindmap');
+    expect(html).toContain('hidden md:block');
+    expect(html).toContain('min-h-[28px]');
+    expect(html).toContain('min-w-[28px]');
     expect(html).toContain('data-lane="entrance"');
     const enHtml = renderToStaticMarkup(createElement(RoadmapView, { roadmap: map, lang: 'en', openLane: 'during_10' }));
     expect(enHtml).toContain('Software engineer');

diff --git a/src/app/(family)/family/family.css b/src/app/(family)/family/family.css
@@ -200,7 +200,7 @@
   padding: 0 1rem 6rem;
 }
 @media (min-width: 768px) {
-  .fam-roadmap { max-width: 72rem; }
+  .fam-page.fam-roadmap { max-width: 72rem; }
 }
 /* Future tabs (exams, schemes, scholarships) use the lesson card, not the global white card. */
 .fam-future .fam-card {
